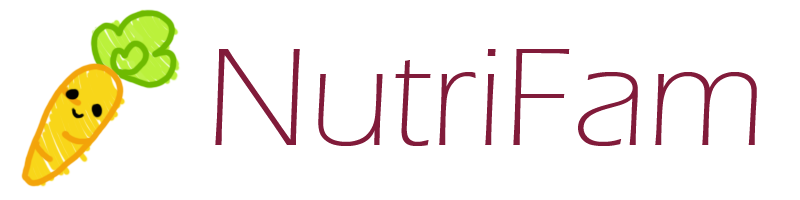
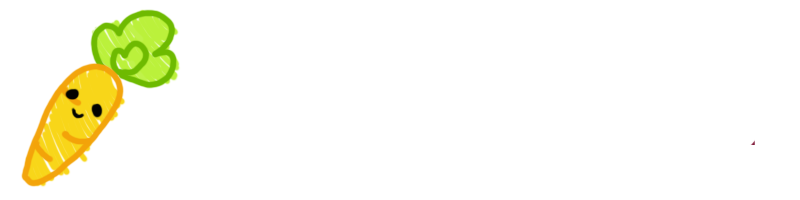
Changed title color, started editing homepage

Changed region(s): [[0.4062, 0.24, 0.7188, 0.75], [0.7188, 0.36, 0.9688, 0.75], [0.25, 0.24, 0.4062, 0.72]]

diff --git a/index.html b/index.html
@@ -51,92 +51,22 @@
 <div id = 'dayHeader'>
     Hi Joanne! Here's what your family is eating today.
 </div>
-<div id="myCarousel" class="carousel slide" data-ride="carousel">
-  <!-- Indicators -->
-  <ol class="carousel-indicators">
-    <li data-target="#myCarousel" data-slide-to="0" class="active"></li>
-    <li data-target="#myCarousel" data-slide-to="1"></li>
-    <li data-target="#myCarousel" data-slide-to="2"></li>
-    <li data-target="#myCarousel" data-slide-to="3"></li>
-  </ol>
 
-  <!-- Wrapper for slides -->
-  <div class="carousel-inner" role="listbox">
-    <div class="item active">
-        <div class = 'famday' id = 'joday'>
-            <p align = 'center'> <b>Joanne's Day </b></p>
-            <table><tr>
-                <td>
-                    <p>Breakfast: Oatmeal</p>
-                    <p>Lunch: Lemon Chicken</p>
-                    <p>Dinner: Spaghetti</p>
-                 </td>
-                <td>
-                    <div id = 'Joannepie'></div>
-                </td>
-            </tr></table>
-        </div>
-    </div>
-
-    <div class="item">
-        <div class = 'famday' id = 'jiday'>
-            <p align = 'center'> <b>Jimbob's Day </b></p>
-            <table><tr>
-                <td>
-                    <p>Breakfast: Oatmeal</p>
-                    <p>Lunch: Baked Potato</p>
-                    <p>Dinner: Spaghetti</p>
-                 </td>
-                <td>
-                    <div id = 'Jimbobpie'></div>
-                </td>
-            </tr></table>
-        </div>
-    </div>
-
-    <div class="item">
-      <div class = 'famday' id = 'mtday'>
-            <p align = 'center'> <b>Matthew's Day </b></p>
-            <table><tr>
-                <td>
-                    <p>Breakfast: Cheerios</p>
-                    <p>Lunch: PB &amp; J Sandwich</p>
-                    <p>Dinner: Spaghetti</p>
-                </td>
-                <td>
-                    <div id = 'Matthewpie'></div>
-                </td>
-            </tr></table>
-        </div>
-    </div>
-
-    <div class="item">
-      <div class = 'famday' id = 'mrday'>
-            <p align = 'center'> <b>Mark's Day </b></p>
-            <table><tr>
-                <td>
-                    <p>Breakfast: Cheerios</p>
-                    <p>Lunch: Pizza</p>
-                    <p>Dinner: Spaghetti</p>
-                </td>
-                <td>
-                    <div id = 'Markpie'></div>
-                </td>
-            </tr></table>
-        </div>
-    </div>
-  </div>
-
-  <!-- Left and right controls -->
-  <a class="left carousel-control" href="#myCarousel" role="button" data-slide="prev">
-    <span class="glyphicon glyphicon-chevron-left" aria-hidden="true"></span>
-    <span class="sr-only">Previous</span>
-  </a>
-  <a class="right carousel-control" href="#myCarousel" role="button" data-slide="next">
-    <span class="glyphicon glyphicon-chevron-right" aria-hidden="true"></span>
-    <span class="sr-only">Next</span>
-  </a>
+<div id = 'homepageLayout'>
+<table border="1">
+<tr>
+<td>Row 1, Column 1</td>
+<td>Row 1, Column 2</td>
+<td>Row 1, Column 2</td>
+</tr>
+<tr>
+<td>Row 2, Column 1</td>
+<td>Row 2, Column 2</td>
+<td>Row 1, Column 2</td>
+</tr>
+</table>
 </div>
+
 </div>
 <!-- Load style sheets -->
 <link href="bootstrap-3.3.6-dist/css/bootstrap.min.css" rel="stylesheet">
